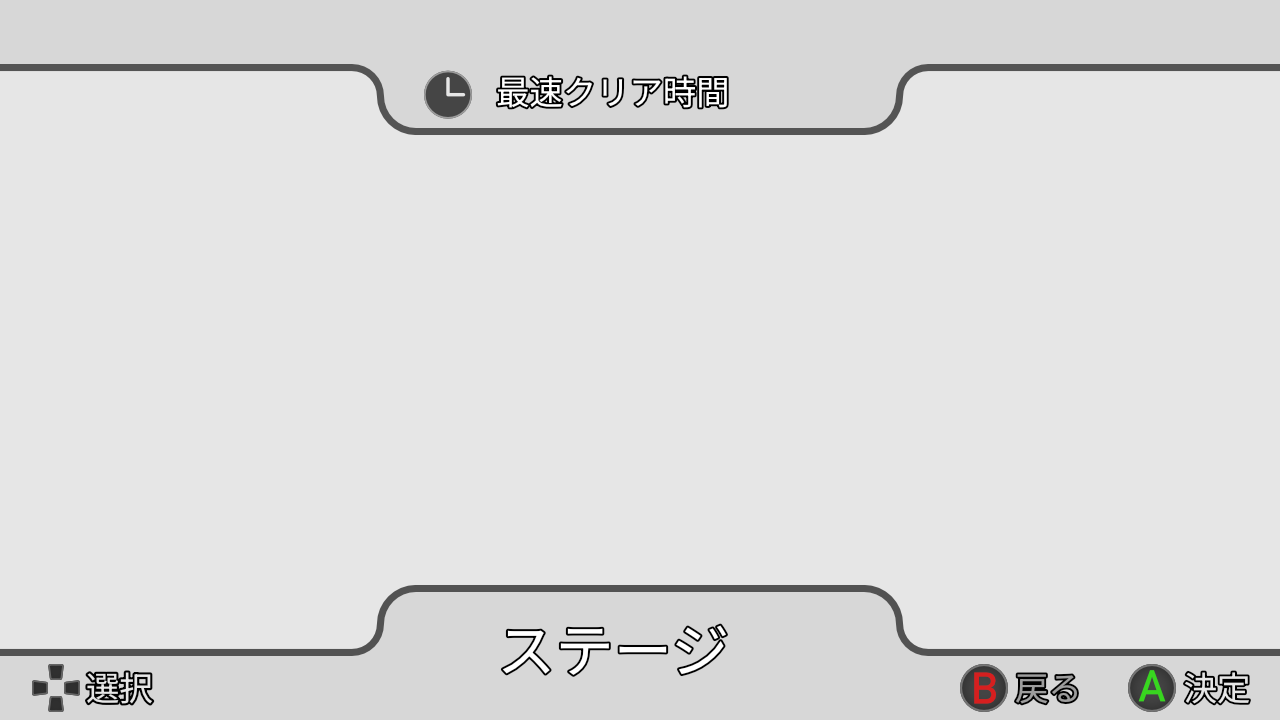
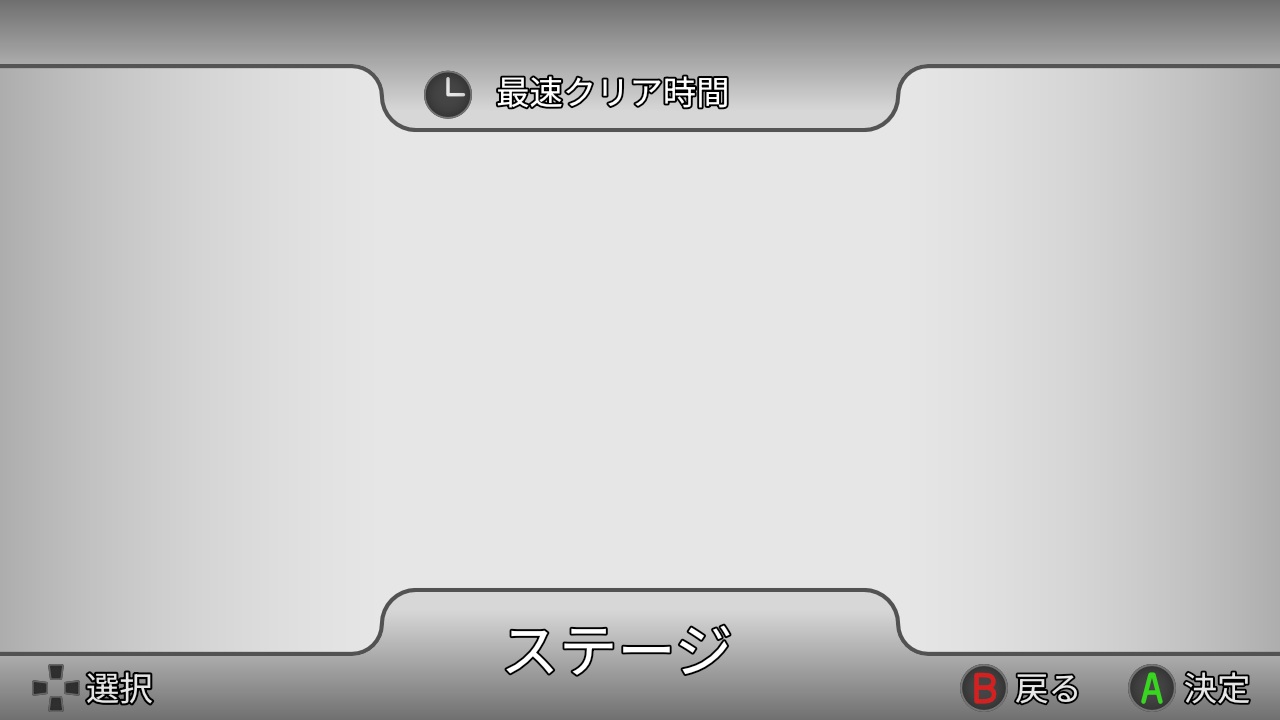
微妙にアニメーションを追加しました。 ステージセレクトの背景を微妙に変えました。 ステージのサムネイルが左端から始まるようになりました。 ステージセレクトにてゲームパッド対応をしました。 キーリピート機能を実装しました。 エンジンにPushControllerButtonを追加しました。

diff --git a/project/Game/Scenes/StageSelectScene.cpp b/project/Game/Scenes/StageSelectScene.cpp
@@ -3,7 +3,10 @@
 #include"imgui.h"
 #include "TextureManager.h"
 
+// マップの右端座標
 constexpr float kMap1maxX = 7035.0f;
+constexpr float kMap2maxX = 3645.0f;
+constexpr float kMap3maxX = 3835.0f;
 
 void StageSelectScene::Initialize() {
 
@@ -59,6 +62,8 @@ void StageSelectScene::Initialize() {
 	map3Sprite_->SetAnchorPoint({ 0.5f,0.5f,0.0f });
 	map3Sprite_->SetSize({ 512.0f, 256.0f,0.0f });
 	map3Sprite_->SetTexSize({ 2280.0f, 1092.0f,0.0f });
+
+	currentStageNum_ = 1;
 }
 
 void StageSelectScene::Finalize() {}
@@ -74,39 +79,137 @@ void StageSelectScene::Update() {
 	ImGui::Text("currentStage: %u", currentStageNum_);
 	ImGui::End();
 
-	ImGui::Begin("map1");
-	Vector3 anchorPoint = map1Sprite_->GetAnchorPoint();
-	if (ImGui::DragFloat3("Anchor Point", &anchorPoint.x, 0.1f)) {
-		map1Sprite_->SetAnchorPoint(anchorPoint);
+	{
+		ImGui::Begin("map1");
+		Vector3 anchorPoint = map1Sprite_->GetAnchorPoint();
+		if (ImGui::DragFloat3("Anchor Point##map1", &anchorPoint.x, 0.1f)) {
+			map1Sprite_->SetAnchorPoint(anchorPoint);
+		}
+
+		Vector3 size = map1Sprite_->GetSize();
+		if (ImGui::DragFloat3("Size##map1", &size.x, 0.1f)) {
+			map1Sprite_->SetSize(size);
+		}
+
+		Vector3 texLeftTop = map1Sprite_->GetTexLeftTop();
+		if (ImGui::DragFloat3("Tex Left Top", &texLeftTop.x, 0.1f)) {
+			map1Sprite_->SetTexLeftTop(texLeftTop);
+		}
+
+		Vector3 texSize = map1Sprite_->GetTexSize();
+		if (ImGui::DragFloat3("Tex Size##map1", &texSize.x, 0.1f)) {
+			map1Sprite_->SetTexSize(texSize);
+		}
+		ImGui::End();
 	}
 
-	Vector3 size = map1Sprite_->GetSize();
-	if (ImGui::DragFloat3("Size", &size.x, 0.1f)) {
-		map1Sprite_->SetSize(size);
+	{
+		ImGui::Begin("map2");
+		Vector3 anchorPoint = map2Sprite_->GetAnchorPoint();
+		if (ImGui::DragFloat3("Anchor Point##map2", &anchorPoint.x, 0.1f)) {
+			map2Sprite_->SetAnchorPoint(anchorPoint);
+		}
+
+		Vector3 size = map2Sprite_->GetSize();
+		if (ImGui::DragFloat3("Size##map2", &size.x, 0.1f)) {
+			map2Sprite_->SetSize(size);
+		}
+
+		Vector3 texLeftTop = map2Sprite_->GetTexLeftTop();
+		if (ImGui::DragFloat3("Tex Left Top##map2", &texLeftTop.x, 0.1f)) {
+			map2Sprite_->SetTexLeftTop(texLeftTop);
+		}
+
+		Vector3 texSize = map2Sprite_->GetTexSize();
+		if (ImGui::DragFloat3("Tex Size##map2", &texSize.x, 0.1f)) {
+			map2Sprite_->SetTexSize(texSize);
+		}
+		ImGui::End();
 	}
 
-	Vector3 texLeftTop = map1Sprite_->GetTexLeftTop();
-	if (ImGui::DragFloat3("Tex Left Top", &texLeftTop.x, 0.1f)) {
-		map1Sprite_->SetTexLeftTop(texLeftTop);
-	}
+	{
+		ImGui::Begin("map3");
+		Vector3 anchorPoint = map3Sprite_->GetAnchorPoint();
+		if (ImGui::DragFloat3("Anchor Point##map3", &anchorPoint.x, 0.1f)) {
+			map3Sprite_->SetAnchorPoint(anchorPoint);
+		}
 
-	Vector3 texSize = map1Sprite_->GetTexSize();
-	if (ImGui::DragFloat3("Tex Size", &texSize.x, 0.1f)) {
-		map1Sprite_->SetTexSize(texSize);
+		Vector3 size = map1Sprite_->GetSize();
+		if (ImGui::DragFloat3("Size##map3", &size.x, 0.1f)) {
+			map3Sprite_->SetSize(size);
+		}
+
+		Vector3 texLeftTop = map3Sprite_->GetTexLeftTop();
+		if (ImGui::DragFloat3("Tex Left Top##map3", &texLeftTop.x, 0.1f)) {
+			map3Sprite_->SetTexLeftTop(texLeftTop);
+		}
+
+		Vector3 texSize = map3Sprite_->GetTexSize();
+		if (ImGui::DragFloat3("Tex Size##map3", &texSize.x, 0.1f)) {
+			map3Sprite_->SetTexSize(texSize);
+		}
+		ImGui::End();
 	}
-	ImGui::End();
 #endif // _DEBUG
 
+	XINPUT_STATE controllerState;
+	bool controllerConnected = Input::GetInstance()->GetJoystickState(0, controllerState);
+
+	float stickX = 0.0f;
+	if (controllerConnected) {
+		stickX = static_cast<float>(controllerState.Gamepad.sThumbLX) / 32767.0f;  // 正規化したスティックのX入力（-1.0 ~ 1.0）
+	}
+
+	// 左右移動入力
+	bool keyboardMoveLeft = Input::GetInstance()->PushKey(DIK_A);
+	bool keyboardMoveRight = Input::GetInstance()->PushKey(DIK_D);
+	bool controllerStickMoveLeft = stickX < -0.5f;  // スティックをある程度倒したときに左移動
+	bool controllerStickMoveRight = stickX > 0.5f;  // スティックをある程度倒したときに右移動
+	bool controllerDPadMoveLeft = Input::GetInstance()->PushControllerButton(0, XINPUT_GAMEPAD_DPAD_LEFT);
+	bool controllerDPadMoveRight = Input::GetInstance()->PushControllerButton(0, XINPUT_GAMEPAD_DPAD_RIGHT);
+
+	bool keyboardStart = Input::GetInstance()->TriggerKey(DIK_SPACE);
+	bool controllerStart = controllerConnected && Input::GetInstance()->TriggerControllerButton(0, XINPUT_GAMEPAD_A);
+
 	// ステージ番号の選択と決定
-	if (Input::GetInstance()->TriggerKey(DIK_SPACE)) {
+	if (keyboardStart || controllerStart) {
 		sceneManager_->SetCurrentStageNum(currentStageNum_);
 		SceneManager::GetInstance()->ChangeScene("GAMEPLAY");
-	} else if (Input::GetInstance()->TriggerKey(DIK_A)) {
+	}
+
+	// 初回入力の処理
+	if (!moveTriggered && (keyboardMoveLeft || controllerStickMoveLeft || controllerDPadMoveLeft)) {
 		currentStageNum_--;
-		t = 0.0f;
-	} else if (Input::GetInstance()->TriggerKey(DIK_D)) {
+		scrollTimer_ = 0.0f;
+		moveTimer = keyRepeatDelay;  // タイマーをリピート遅延時間でリセット
+		moveTriggered = true;        // 初回移動トリガー
+	} else if (!moveTriggered && (keyboardMoveRight || controllerStickMoveRight || controllerDPadMoveRight)) {
 		currentStageNum_++;
-		t = 0.0f;
+		scrollTimer_ = 0.0f;
+		moveTimer = keyRepeatDelay;
+		moveTriggered = true;
+	}
+
+	// タイマーをリセットする（移動が止まったとき）
+	if (!keyboardMoveLeft && !controllerStickMoveLeft && !controllerDPadMoveLeft && !keyboardMoveRight && !controllerStickMoveRight && !controllerDPadMoveRight) {
+		moveTriggered = false;
+		moveTimer = 0.0f;  // タイマーをリセット
+	}
+
+	// リピート処理
+	if (moveTriggered && moveTimer > 0.0f) {
+		moveTimer -= 1.0f / 60.0f;  // タイマーを減少させる
+	} else if (moveTriggered && moveTimer <= 0.0f) {
+		// タイマーが0以下ならリピート処理を行う
+		if (keyboardMoveLeft || controllerStickMoveLeft || controllerDPadMoveLeft) {
+			currentStageNum_--;
+			scrollTimer_ = 0.0f;
+			moveTimer = keyRepeatInterval;  // リピート間隔でタイマーをリセット
+		} else if (keyboardMoveRight || controllerStickMoveRight || controllerDPadMoveRight) {
+			currentStageNum_++;
+			scrollTimer_ = 0.0f;
+			moveTimer = keyRepeatInterval;
+		}
 	}
 
 	// 値超過排斥処理
@@ -116,7 +219,15 @@ void StageSelectScene::Update() {
 		currentStageNum_ = kMaxStageNum_;
 	}
 
+	// ステージを切り替えたら
+	if (currentStageNum_ != oldStageNum_) {
+		numberSprite_->SetAnchorPoint({ 0.0f,-0.5f,0.0f });
+	}
+
+	oldStageNum_ = currentStageNum_;
+
 	numberSprite_->SetTexLeftTop(Vector3(currentStageNum_ * numberSprite_->GetTexSize().x, 0.0f, 0.0f));
+	numberSprite_->SetAnchorPoint({ numberSprite_->GetAnchorPoint().x,std::lerp(numberSprite_->GetAnchorPoint().y, 0.5f,1.0f / 60.0f * 15.0f),numberSprite_->GetAnchorPoint().z });
 
 	selectSceneSprite_->Update();
 	selectAllowSceneSprite_->Update();
@@ -129,10 +240,10 @@ void StageSelectScene::Update() {
 	map2Sprite_->Update();
 	map3Sprite_->Update();
 
-	map1Sprite_->SetTexLeftTop({ (kMap1maxX * 0.5f) + std::cos(t) * (kMap1maxX * 0.5f),map1Sprite_->GetTexLeftTop().y,map1Sprite_->GetTexLeftTop().z });
-	map2Sprite_->SetTexLeftTop({ (kMap1maxX * 0.5f) + std::cos(t) * (kMap1maxX * 0.5f),map2Sprite_->GetTexLeftTop().y,map2Sprite_->GetTexLeftTop().z });
-	map3Sprite_->SetTexLeftTop({ (kMap1maxX * 0.5f) + std::cos(t) * (kMap1maxX * 0.5f),map3Sprite_->GetTexLeftTop().y,map3Sprite_->GetTexLeftTop().z });
-	t += 0.0025f;
+	map1Sprite_->SetTexLeftTop({ (1.0f - std::cos(scrollTimer_)) * (kMap1maxX * 0.5f),map1Sprite_->GetTexLeftTop().y,map1Sprite_->GetTexLeftTop().z });
+	map2Sprite_->SetTexLeftTop({ (1.0f - std::cos(scrollTimer_)) * (kMap2maxX * 0.5f),map2Sprite_->GetTexLeftTop().y,map2Sprite_->GetTexLeftTop().z });
+	map3Sprite_->SetTexLeftTop({ (1.0f - std::cos(scrollTimer_)) * (kMap3maxX * 0.5f),map3Sprite_->GetTexLeftTop().y,map3Sprite_->GetTexLeftTop().z });
+	scrollTimer_ += 0.0025f;
 }
 
 void StageSelectScene::Draw() {

diff --git a/project/Engine/Input/Input.cpp b/project/Engine/Input/Input.cpp
@@ -163,38 +163,31 @@ bool Input::TriggerKey(uint8_t keyNumber) const {
 	return false;
 }
 
-const DIMOUSESTATE2& Input::GetAllMouse() const
-{
+const DIMOUSESTATE2& Input::GetAllMouse() const {
 	return mouse;
 }
 
-bool Input::IsPressMouse(int32_t mouseNumber) const
-{
+bool Input::IsPressMouse(int32_t mouseNumber) const {
 	return mouse.rgbButtons[mouseNumber] & 0x80;
 }
 
-bool Input::IsTriggerMouse(int32_t buttonNumber) const
-{
+bool Input::IsTriggerMouse(int32_t buttonNumber) const {
 	return (mouse.rgbButtons[buttonNumber] & 0x80) && !(mousePre.rgbButtons[buttonNumber] & 0x80);
 }
 
-Input::MouseMove Input::GetMouseMove()
-{
+Input::MouseMove Input::GetMouseMove() {
 	MouseMove move = { mouse.lX, mouse.lY, mouse.lZ };
 	return move;
 }
 
-int32_t Input::GetWheel() const
-{
+int32_t Input::GetWheel() const {
 	return mouse.lZ;
 }
 
-const Vector2& Input::GetMousePosition() const
-{
+const Vector2& Input::GetMousePosition() const {
 	return mousePosition_;
 }
-bool Input::GetJoystickState(int32_t stickNo, XINPUT_STATE& out) const
-{
+bool Input::GetJoystickState(int32_t stickNo, XINPUT_STATE& out) const {
 	if (stickNo < 0 || stickNo >= devJoysticks_.size()) return false;
 	if (devJoysticks_[stickNo].type_ != PadType::XInput) return false;
 
@@ -202,8 +195,7 @@ bool Input::GetJoystickState(int32_t stickNo, XINPUT_STATE& out) const
 	return true;
 }
 
-bool Input::GetJoystickStatePrevious(int32_t stickNo, XINPUT_STATE& out) const
-{
+bool Input::GetJoystickStatePrevious(int32_t stickNo, XINPUT_STATE& out) const {
 	if (stickNo < 0 || stickNo >= devJoysticks_.size()) return false;
 	if (devJoysticks_[stickNo].type_ != PadType::XInput) return false;
 
@@ -211,21 +203,27 @@ bool Input::GetJoystickStatePrevious(int32_t stickNo, XINPUT_STATE& out) const
 	return true;
 }
 
-void Input::SetJoystickDeadZone(int32_t stickNo, int32_t deadZoneL, int32_t deadZoneR)
-{
+void Input::SetJoystickDeadZone(int32_t stickNo, int32_t deadZoneL, int32_t deadZoneR) {
 }
 
-size_t Input::GetNumberOfJoysticks()
-{
+size_t Input::GetNumberOfJoysticks() {
 	return size_t();
 }
 
-bool Input::TriggerControllerButton(int32_t stickNo, WORD button)
-{
+bool Input::TriggerControllerButton(int32_t stickNo, WORD button) {
 	XINPUT_STATE currentState;
 	XINPUT_STATE previousState;
 	if (GetJoystickState(stickNo, currentState) && GetJoystickStatePrevious(stickNo, previousState)) {
 		return ((currentState.Gamepad.wButtons & button) != 0) && ((previousState.Gamepad.wButtons & button) == 0);
+	}
+	return false;
+}
+
+bool Input::PushControllerButton(int32_t stickNo, WORD button) {
+	XINPUT_STATE currentState;
+	if (GetJoystickState(stickNo, currentState)) {
+		// 押されている場合は true を返す
+		return (currentState.Gamepad.wButtons & button) != 0;
 	}
 	return false;
 }

diff --git a/project/Game/Scenes/TitleScene.cpp b/project/Game/Scenes/TitleScene.cpp
@@ -29,30 +29,13 @@ void TitleScene::Update() {
 	ImGui::End();
 #endif // _DEBUG
 
-	//XINPUT_STATE controllerState;
-	//bool controllerConnected = Input::GetInstance()->GetJoystickState(0, controllerState);
+	XINPUT_STATE controllerState;
+	bool controllerConnected = Input::GetInstance()->GetJoystickState(0, controllerState);
 
-	//float stickX = 0.0f;
-	//if (controllerConnected) {s
-	//	stickX = static_cast<float>(controllerState.Gamepad.sThumbLX) / 32767.0f;  // 正規化したスティックのX入力（-1.0 ~ 1.0）
-	//}
-	//// 左右移動入力
-	//bool keyboardMoveLeft = Input::GetInstance()->PushKey(DIK_A);
-	//bool keyboardMoveRight = Input::GetInstance()->PushKey(DIK_D);
-	//bool controllerMoveLeft = stickX < -0.2f;
-	//bool controllerMoveRight = stickX > 0.2f;
-	//if (keyboardMoveLeft || keyboardMoveRight || controllerMoveLeft || controllerMoveRight) {
-	//	// 左右処理
-	//	Vector3 acceleration = {};
-	//	if (keyboardMoveRight || controllerMoveRight) {
-	//		// 左移動中の右入力
-	//	} else if (keyboardMoveLeft || controllerMoveLeft) {
-	//		// 右移動中の左入力
-	//	}
-	//}
+	bool keyboardStart = Input::GetInstance()->TriggerKey(DIK_SPACE);
+	bool controllerStart = controllerConnected && Input::GetInstance()->TriggerControllerButton(0, XINPUT_GAMEPAD_A);
 
-
-	if (Input::GetInstance()->TriggerKey(DIK_SPACE)) {
+	if (keyboardStart || controllerStart) {
 		/*シーン切り替え依頼*/
 		SceneManager::GetInstance()->ChangeScene("SELECT");
 	}

diff --git a/project/Game/Scenes/StageSelectScene.h b/project/Game/Scenes/StageSelectScene.h
@@ -72,13 +72,22 @@ private:
 	std::unique_ptr<Sprite> map3Sprite_;
 
 
+	// キーリピート用のタイマー
+	float keyRepeatDelay = 0.2f;    // 初回リピート遅延時間（0.5秒）
+	float keyRepeatInterval = 0.1f; // リピート間隔（0.1秒）
+	float moveTimer = 0.0f;         // タイマーの初期化
+	bool moveTriggered = false;     // 初回の移動がトリガーされたかどうか
+
 	// 時間
-	float t = 0.0f;
+	float scrollTimer_ = 0.0f;
 
 	// 最大ステージ数
 	const uint32_t kMaxStageNum_ = 3;
 
 	// 現在選択しているステージ数
 	uint32_t currentStageNum_ = 1;
+
+	// 前のフレームで選択していたステージ
+	uint32_t oldStageNum_ = 0;
 };
 

diff --git a/project/Engine/Input/Input.h b/project/Engine/Input/Input.h
@@ -161,6 +161,8 @@ public:
 	size_t GetNumberOfJoysticks();
 
 	bool TriggerControllerButton(int32_t stickNo, WORD button);
+
+	bool PushControllerButton(int32_t stickNo, WORD button);
 private:
 	Input() = default;
 	~Input() = default;

diff --git a/project/Game/Scenes/GameScene.cpp b/project/Game/Scenes/GameScene.cpp
@@ -252,7 +252,7 @@ void GameScene::Update() {
 
 	// Enemy
 	enemy_->SetPlayerPos(player_->GetWorldPosition());
-	enemy_->Update();
+	//enemy_->Update();
 
 	// Goal
 	goal_->Update();
